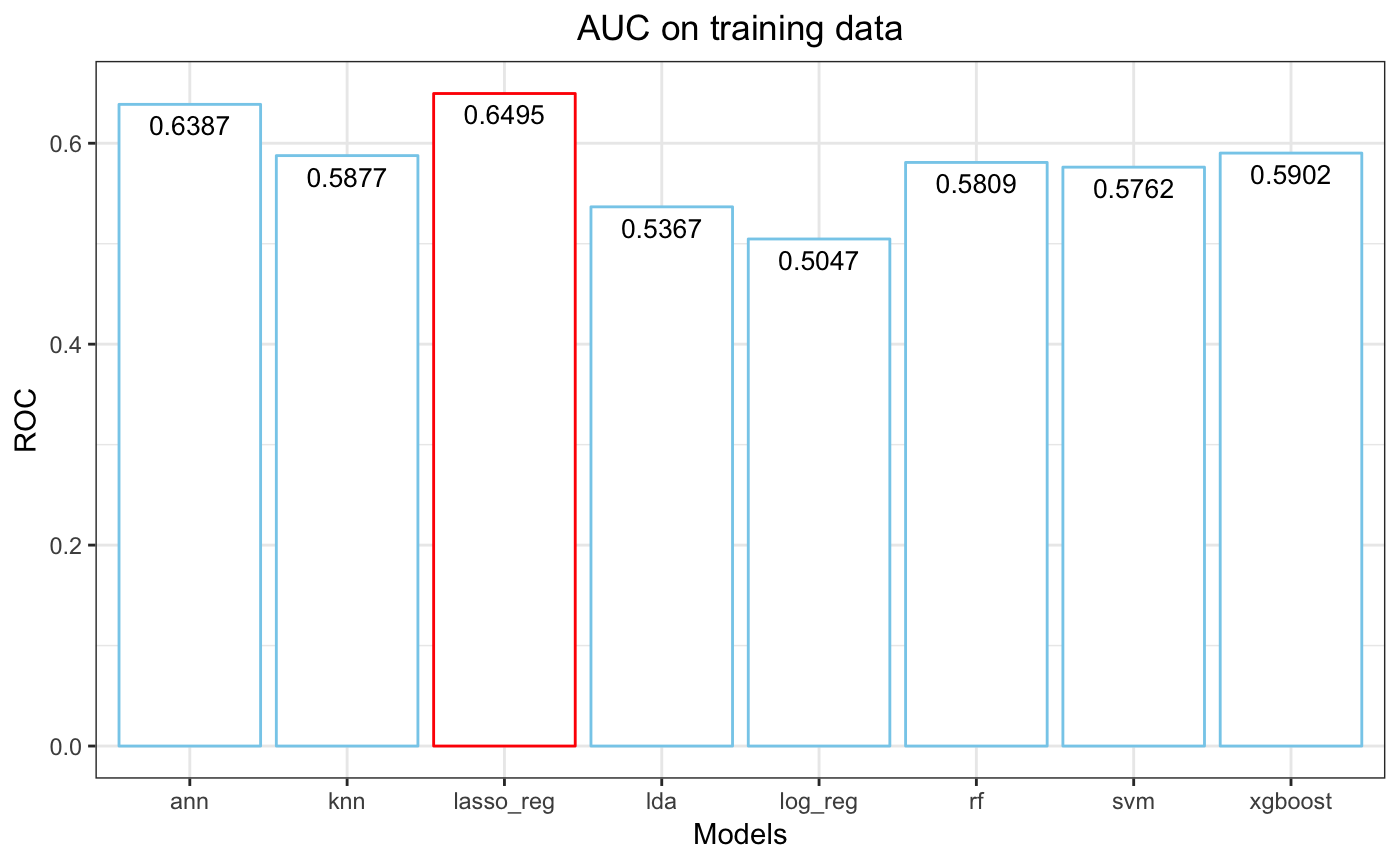
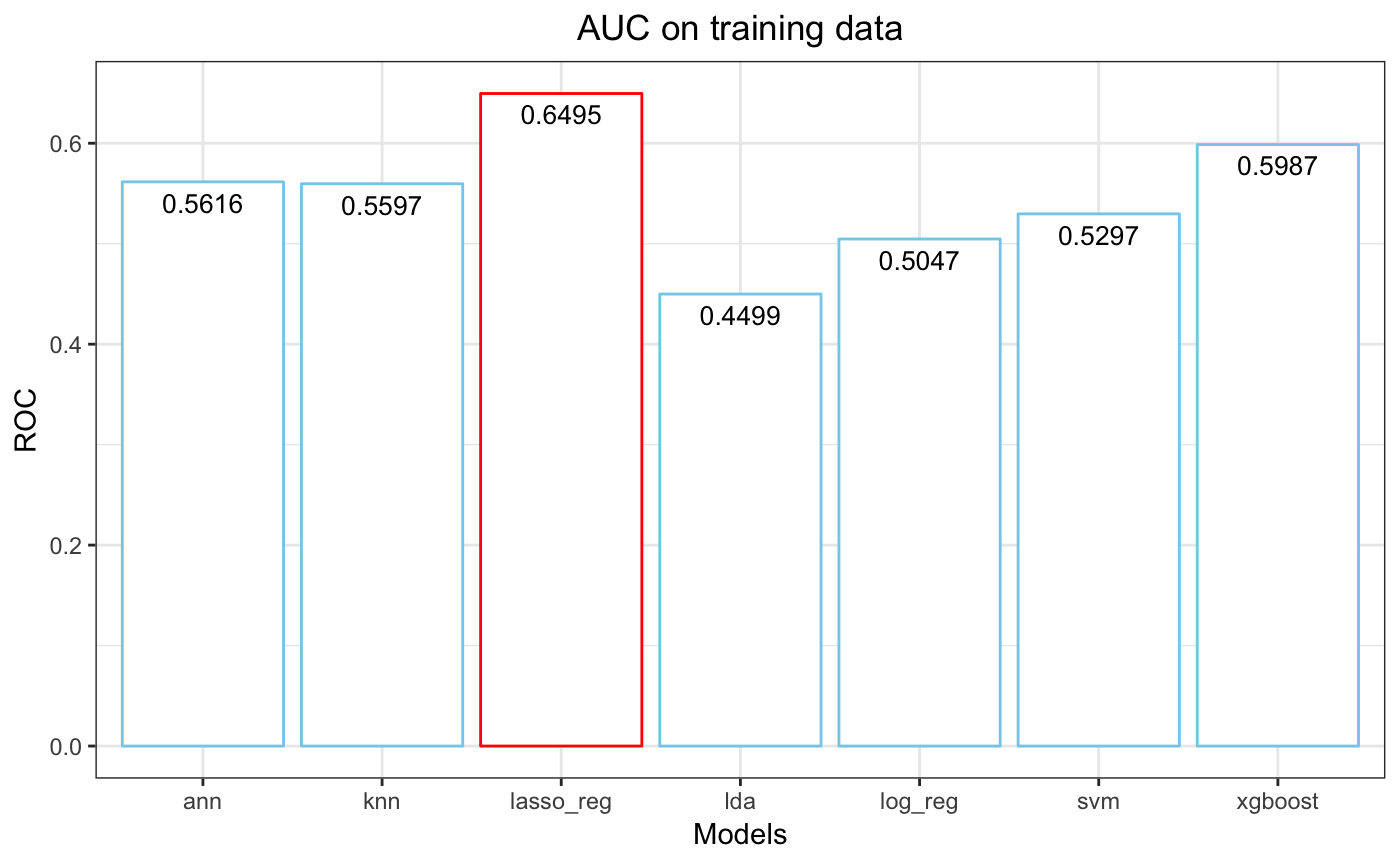
Fixed documentation

diff --git a/docs/reference/bestclassifier.html b/docs/reference/bestclassifier.html
@@ -34,7 +34,7 @@
 
 <meta property="og:description" content="bestclassifier trains up to eight binary classification models
 on a dataset and identifies the most predictive model according to
-either AUC or accuracy" />
+either AUC or Accuracy" />
 <meta name="twitter:card" content="summary" />
 
 
@@ -117,7 +117,7 @@ either AUC or accuracy" />
     
     <p><code>bestclassifier</code> trains up to eight binary classification models
 on a dataset and identifies the most predictive model according to
-either AUC or accuracy</p>
+either AUC or Accuracy</p>
     
     </div>
 
@@ -174,7 +174,7 @@ either AUC or accuracy</p>
     </tr>
     <tr>
       <th>subset_train</th>
-      <td><p>the percentage of the training data used to train the model</p></td>
+      <td><p>optional parameter used to reduce the size of the training dataset in order to speed up binary classification model creation. This parameter is a numeric object between 0 and 1.</p></td>
     </tr>
     <tr>
       <th>desired_metric</th>
@@ -184,20 +184,21 @@ either AUC or accuracy</p>
     
     <h2 class="hasAnchor" id="value"><a class="anchor" href="#value"></a>Value</h2>
 
-    <p>a confusion matrix of the best binary classification model</p>
+    <p>the best binary classification model</p>
     
     <h2 class="hasAnchor" id="details"><a class="anchor" href="#details"></a>Details</h2>
 
-    <p>This function uses the caret package to employ as many as eight binary 
-classification models on a dataset, allowing the user to train
+    <p>This function uses the caret package to train as many as eight binary 
+classification models on a dataset, allowing the user to build
 logistic regression, lasso regression, random forest, extreme gradient 
 boosting, support vector machine, artificial neural network, latent 
 dirichlet allocation, and k nearest neighbors models. After training the 
 models, the function prints a bar graph depicting the most predictive
 machine learning model based on AUC or Accuracy and outputs the name of
-the best model on the training dataset as well as its performance results.
-The function then employs the best model on a testing dataset and returns
-a confusion matrix describing the model's predictive results.</p>
+the best model on the training dataset as well as its predictive performance.
+The function then implements the best model on a testing dataset and prints
+a confusion matrix with the model's predictive performance. The function returns
+the best model.</p>
     
 
     <h2 class="hasAnchor" id="examples"><a class="anchor" href="#examples"></a>Examples</h2>
@@ -206,9 +207,35 @@ a confusion matrix describing the model's predictive results.</p>
 <span class='no'>names</span> <span class='kw'>&lt;-</span> <span class='fu'><a href='https://www.rdocumentation.org/packages/base/topics/c'>c</a></span>(<span class='st'>"a"</span>, <span class='st'>"b"</span>, <span class='st'>"c"</span>, <span class='st'>"d"</span>, <span class='st'>"e"</span>, <span class='st'>"f"</span>, <span class='st'>"g"</span>, <span class='st'>"h"</span>, <span class='st'>"i"</span>, <span class='st'>"j"</span>, <span class='st'>"k"</span>, <span class='st'>"l"</span>, <span class='st'>"m"</span>, <span class='st'>"n"</span>, <span class='st'>"o"</span>, <span class='st'>"p"</span>, <span class='st'>"q"</span>, <span class='st'>"r"</span>, <span class='st'>"s"</span>, <span class='st'>"t"</span>, <span class='st'>"u"</span>, <span class='st'>"v"</span>, <span class='st'>"w"</span>, <span class='st'>"x"</span>, <span class='st'>"y"</span>, <span class='st'>"z"</span>, <span class='st'>"aa"</span>, <span class='st'>"bb"</span>, <span class='st'>"cc"</span>, <span class='st'>"dd"</span>, <span class='st'>"ee"</span>, <span class='st'>"ff"</span>, <span class='st'>"gg"</span>, <span class='st'>"Class"</span>)
 <span class='fu'><a href='https://www.rdocumentation.org/packages/base/topics/names'>names</a></span>(<span class='no'>Ionosphere</span>) <span class='kw'>&lt;-</span> <span class='no'>names</span>
 <span class='fu'>bestclassifier</span>(<span class='kw'>data</span> <span class='kw'>=</span> <span class='no'>Ionosphere</span>, <span class='kw'>form</span> <span class='kw'>=</span> <span class='no'>Class</span> ~ <span class='no'>.</span>, <span class='kw'>method</span> <span class='kw'>=</span> <span class='st'>"repeatedcv"</span>,
-                <span class='kw'>number</span> <span class='kw'>=</span> <span class='fl'>5</span>, <span class='kw'>repeats</span> <span class='kw'>=</span> <span class='fl'>2</span>, <span class='kw'>tuneLength</span> <span class='kw'>=</span> <span class='fl'>5</span>, <span class='kw'>positive</span> <span class='kw'>=</span> <span class='st'>"Class"</span>,
-                <span class='kw'>model</span> <span class='kw'>=</span> <span class='fu'><a href='https://www.rdocumentation.org/packages/base/topics/c'>c</a></span>(<span class='st'>"log_reg"</span>, <span class='st'>"lasso"</span>, <span class='st'>"rf"</span>, <span class='st'>"svm"</span>, <span class='st'>"ann"</span>), <span class='kw'>set_seed</span> <span class='kw'>=</span> <span class='fl'>1234</span>,
-                <span class='kw'>subset_train</span> <span class='kw'>=</span> <span class='fl'>1.0</span>, <span class='kw'>desired_metric</span> <span class='kw'>=</span> <span class='st'>"ROC"</span>)</div><div class='output co'>#&gt; <span class='error'>Error in bestclassifier(data = Ionosphere, form = Class ~ ., method = "repeatedcv",     number = 5, repeats = 2, tuneLength = 5, positive = "Class",     model = c("log_reg", "lasso", "rf", "svm", "ann"), set_seed = 1234,     subset_train = 1, desired_metric = "ROC"): positive must be a valid argument of the dependent variable</span></div></pre>
+                <span class='kw'>number</span> <span class='kw'>=</span> <span class='fl'>5</span>, <span class='kw'>repeats</span> <span class='kw'>=</span> <span class='fl'>2</span>, <span class='kw'>tuneLength</span> <span class='kw'>=</span> <span class='fl'>5</span>, <span class='kw'>positive</span> <span class='kw'>=</span> <span class='st'>"good"</span>,
+                <span class='kw'>model</span> <span class='kw'>=</span> <span class='fu'><a href='https://www.rdocumentation.org/packages/base/topics/c'>c</a></span>(<span class='st'>"log_reg"</span>, <span class='st'>"lasso"</span>, <span class='st'>"rf"</span>), <span class='kw'>set_seed</span> <span class='kw'>=</span> <span class='fl'>1234</span>,
+                <span class='kw'>subset_train</span> <span class='kw'>=</span> <span class='fl'>1.0</span>, <span class='kw'>desired_metric</span> <span class='kw'>=</span> <span class='st'>"ROC"</span>)</div><div class='output co'>#&gt; <span class='warning'>Warning: The metric "Accuracy" was not in the result set. ROC will be used instead.</span></div><div class='output co'>#&gt; <span class='message'>Loading required package: lattice</span></div><div class='output co'>#&gt; <span class='message'>Loading required package: ggplot2</span></div><div class='output co'>#&gt; <span class='warning'>Warning: glm.fit: algorithm did not converge</span></div><div class='output co'>#&gt; <span class='warning'>Warning: glm.fit: fitted probabilities numerically 0 or 1 occurred</span></div><div class='output co'>#&gt; <span class='warning'>Warning: glm.fit: algorithm did not converge</span></div><div class='output co'>#&gt; <span class='warning'>Warning: glm.fit: fitted probabilities numerically 0 or 1 occurred</span></div><div class='output co'>#&gt; <span class='warning'>Warning: glm.fit: fitted probabilities numerically 0 or 1 occurred</span></div><div class='output co'>#&gt; <span class='warning'>Warning: glm.fit: algorithm did not converge</span></div><div class='output co'>#&gt; <span class='warning'>Warning: glm.fit: fitted probabilities numerically 0 or 1 occurred</span></div><div class='output co'>#&gt; <span class='warning'>Warning: glm.fit: fitted probabilities numerically 0 or 1 occurred</span></div><div class='output co'>#&gt; <span class='warning'>Warning: glm.fit: fitted probabilities numerically 0 or 1 occurred</span></div><div class='output co'>#&gt; <span class='warning'>Warning: glm.fit: fitted probabilities numerically 0 or 1 occurred</span></div><div class='output co'>#&gt; <span class='warning'>Warning: glm.fit: algorithm did not converge</span></div><div class='output co'>#&gt; <span class='warning'>Warning: glm.fit: fitted probabilities numerically 0 or 1 occurred</span></div><div class='output co'>#&gt; <span class='warning'>Warning: glm.fit: algorithm did not converge</span></div><div class='output co'>#&gt; <span class='warning'>Warning: glm.fit: fitted probabilities numerically 0 or 1 occurred</span></div><div class='output co'>#&gt; <span class='warning'>Warning: glm.fit: fitted probabilities numerically 0 or 1 occurred</span></div><div class='output co'>#&gt; <span class='warning'>Warning: glm.fit: fitted probabilities numerically 0 or 1 occurred</span></div><div class='output co'>#&gt; <span class='warning'>Warning: The metric "Accuracy" was not in the result set. ROC will be used instead.</span></div><div class='output co'>#&gt; <span class='warning'>Warning: The metric "Accuracy" was not in the result set. ROC will be used instead.</span></div><div class='output co'>#&gt; Your best binary classification model is rf yielding an AUC of 0.978 
+#&gt;  </div><div class='img'><img src='bestclassifier-1.png' alt='' width='700' height='433' /></div><div class='output co'>#&gt; Confusion Matrix and Statistics
+#&gt; 
+#&gt;           Reference
+#&gt; Prediction bad good
+#&gt;       bad   33    2
+#&gt;       good   4   65
+#&gt;                                           
+#&gt;                Accuracy : 0.9423          
+#&gt;                  95% CI : (0.8787, 0.9785)
+#&gt;     No Information Rate : 0.6442          
+#&gt;     P-Value [Acc &gt; NIR] : 6.661e-13       
+#&gt;                                           
+#&gt;                   Kappa : 0.8726          
+#&gt;  Mcnemar's Test P-Value : 0.6831          
+#&gt;                                           
+#&gt;             Sensitivity : 0.9701          
+#&gt;             Specificity : 0.8919          
+#&gt;          Pos Pred Value : 0.9420          
+#&gt;          Neg Pred Value : 0.9429          
+#&gt;              Prevalence : 0.6442          
+#&gt;          Detection Rate : 0.6250          
+#&gt;    Detection Prevalence : 0.6635          
+#&gt;       Balanced Accuracy : 0.9310          
+#&gt;                                           
+#&gt;        'Positive' Class : good            
+#&gt;                                           </div></pre>
   </div>
   <div class="col-md-3 hidden-xs hidden-sm" id="sidebar">
     <h2>Contents</h2>

diff --git a/docs/index.html b/docs/index.html
@@ -10,7 +10,7 @@
 <script src="https://cdnjs.cloudflare.com/ajax/libs/twitter-bootstrap/3.3.7/js/bootstrap.min.js" integrity="sha256-U5ZEeKfGNOja007MMD3YBI0A3OSZOQbeG6z2f2Y0hu8=" crossorigin="anonymous"></script><!-- Font Awesome icons --><link rel="stylesheet" href="https://cdnjs.cloudflare.com/ajax/libs/font-awesome/4.7.0/css/font-awesome.min.css" integrity="sha256-eZrrJcwDc/3uDhsdt61sL2oOBY362qM3lon1gyExkL0=" crossorigin="anonymous">
 <!-- clipboard.js --><script src="https://cdnjs.cloudflare.com/ajax/libs/clipboard.js/2.0.4/clipboard.min.js" integrity="sha256-FiZwavyI2V6+EXO1U+xzLG3IKldpiTFf3153ea9zikQ=" crossorigin="anonymous"></script><!-- sticky kit --><script src="https://cdnjs.cloudflare.com/ajax/libs/sticky-kit/1.1.3/sticky-kit.min.js" integrity="sha256-c4Rlo1ZozqTPE2RLuvbusY3+SU1pQaJC0TjuhygMipw=" crossorigin="anonymous"></script><!-- pkgdown --><link href="pkgdown.css" rel="stylesheet">
 <script src="pkgdown.js"></script><meta property="og:title" content="Identify Best Binary Classification Model">
-<meta property="og:description" content="This package identifies and employs the best binary classification machine learning model on a dataset based on either AUC or Accuracy.">
+<meta property="og:description" content="This package identifies and employs the best binary classification model on a dataset based on either AUC or Accuracy.">
 <meta name="twitter:card" content="summary">
 <!-- mathjax --><script src="https://cdnjs.cloudflare.com/ajax/libs/mathjax/2.7.5/MathJax.js" integrity="sha256-nvJJv9wWKEm88qvoQl9ekL2J+k/RWIsaSScxxlsrv8k=" crossorigin="anonymous"></script><script src="https://cdnjs.cloudflare.com/ajax/libs/mathjax/2.7.5/config/TeX-AMS-MML_HTMLorMML.js" integrity="sha256-84DKXVJXs0/F8OTMzX4UR909+jtl4G7SPypPavF+GfA=" crossorigin="anonymous"></script><!--[if lt IE 9]>
 <script src="https://oss.maxcdn.com/html5shiv/3.7.3/html5shiv.min.js"></script>
@@ -110,14 +110,13 @@ devtools<span class="op">::</span><span class="kw"><a href="https://www.rdocumen
 <div id="example" class="section level2">
 <h2 class="hasAnchor">
 <a href="#example" class="anchor"></a>Example</h2>
-<p>Below is an example of the bestclassifier function used on the CCD dataset:</p>
+<p>Below is an example of the bestclassifier function used on the CCD dataset. Because this dataset contains nearly 30,000 observations, I used only 1% of the training data to build the binary classification models.</p>
 <div class="sourceCode"><pre class="sourceCode r"><code class="sourceCode r"><span class="kw"><a href="https://www.rdocumentation.org/packages/base/topics/library">library</a></span>(bestclassifier)
 
 <span class="kw"><a href="reference/bestclassifier.html">bestclassifier</a></span>(<span class="dt">data =</span> CCD, <span class="dt">form =</span> default.payment.next.month <span class="op">~</span><span class="st"> </span>., <span class="dt">p =</span> <span class="fl">0.7</span>, 
               <span class="dt">method =</span> <span class="st">"repeatedcv"</span>, <span class="dt">number =</span> <span class="dv">5</span>, <span class="dt">repeats =</span> <span class="dv">1</span>, <span class="dt">tuneLength =</span> <span class="dv">5</span>, 
-              <span class="dt">positive =</span><span class="st">"Default"</span>, <span class="dt">model =</span> <span class="kw"><a href="https://www.rdocumentation.org/packages/base/topics/c">c</a></span>(<span class="st">"log_reg"</span>, <span class="st">"lasso"</span>, <span class="st">"rf"</span>, <span class="st">"svm"</span>, <span class="st">"lda"</span>, 
-              <span class="st">"knn"</span>, <span class="st">"ann"</span>, <span class="st">"xgboost"</span>), <span class="dt">set_seed =</span> <span class="dv">1234</span>, <span class="dt">subset_train =</span> .<span class="dv">01</span>, 
-              <span class="dt">desired_metric =</span> <span class="st">"ROC"</span>)</code></pre></div>
+              <span class="dt">positive =</span><span class="st">"Default"</span>, <span class="dt">model =</span> <span class="kw"><a href="https://www.rdocumentation.org/packages/base/topics/c">c</a></span>(<span class="st">"log_reg"</span>, <span class="st">"lasso"</span>, <span class="st">"rf"</span>), 
+              <span class="dt">set_seed =</span> <span class="dv">1234</span>, <span class="dt">subset_train =</span> .<span class="dv">01</span>, <span class="dt">desired_metric =</span> <span class="st">"ROC"</span>)</code></pre></div>
 </div>
 <div id="getting-help" class="section level2">
 <h2 class="hasAnchor">

diff --git a/docs/articles/introduction_to_bestclassifier.html b/docs/articles/introduction_to_bestclassifier.html
@@ -73,7 +73,7 @@
       <h1>Introduction to bestclassifier</h1>
                         <h4 class="author">Shane Ross</h4>
             
-            <h4 class="date">2018-12-13</h4>
+            <h4 class="date">2018-12-21</h4>
       
       
       <div class="hidden name"><code>introduction_to_bestclassifier.Rmd</code></div>
@@ -239,8 +239,7 @@
 <h4 class="hasAnchor">
 <a href="#subset_train" class="anchor"></a>subset_train</h4>
 <ul>
-<li>
-<strong>subset_train</strong> depicts the percentage of the training data used to train the binary classification models. This parameter helps reduce computation time when the training dataset is especially large. It accepts numeric objects in between 0 and 1.
+<li>After the data has been divided into a training and testing dataset, <strong>subset_train</strong> will reduce the size of the training data in order to generate the binary classification models more quickly. This parameter is used to decrease computation time when the training dataset is especially large and the user does not have time to wait for the results. However, performance can suffer when training a model based on a fraction of the training data. This parameter accepts numeric objects between 0 and 1.
 <ul>
 <li>Ex: subset_train = .1</li>
 </ul>
@@ -297,15 +296,15 @@
 <div id="interpreting-the-output-generated-by-best-classifier" class="section level2">
 <h2 class="hasAnchor">
 <a href="#interpreting-the-output-generated-by-best-classifier" class="anchor"></a>Interpreting the output generated by best.classifier</h2>
-<p>In the example below, I am seeking the machine learning model that produces the highest AUC when classifying credit card default. These models will be predicting the “Default” category in the Class variable by using all of the predictors in the dataset.</p>
+<p>In the example below, I am seeking the machine learning model that produces the highest AUC when classifying credit card default. These models will be predicting the “Default” category in the Class variable by using all of the predictors in the dataset. Because the CCD data contains nearly 30,000 observations, I am training the model on 1% of the training dataset for fast results.</p>
 <div class="sourceCode"><pre class="sourceCode r"><code class="sourceCode r"><span class="kw"><a href="https://www.rdocumentation.org/packages/base/topics/library">library</a></span>(bestclassifier)
 <span class="kw"><a href="../reference/bestclassifier.html">bestclassifier</a></span>(<span class="dt">data =</span> CCD, <span class="dt">form =</span> default.payment.next.month <span class="op">~</span><span class="st"> </span>., <span class="dt">p =</span> <span class="fl">0.7</span>, <span class="dt">method =</span> 
 <span class="st">"repeatedcv"</span>, <span class="dt">number =</span> <span class="dv">5</span>, <span class="dt">repeats =</span> <span class="dv">1</span>, <span class="dt">tuneLength =</span> <span class="dv">5</span>, 
-<span class="dt">positive =</span><span class="st">"Default"</span>, <span class="dt">model =</span> <span class="kw"><a href="https://www.rdocumentation.org/packages/base/topics/c">c</a></span>(<span class="st">"log_reg"</span>, <span class="st">"lasso"</span>, <span class="st">"rf"</span>, 
+<span class="dt">positive =</span><span class="st">"Default"</span>, <span class="dt">model =</span> <span class="kw"><a href="https://www.rdocumentation.org/packages/base/topics/c">c</a></span>(<span class="st">"log_reg"</span>, <span class="st">"lasso"</span>, <span class="st">"lda"</span>, 
 <span class="st">"svm"</span>, <span class="st">"lda"</span>, <span class="st">"knn"</span>, <span class="st">"ann"</span>, 
 <span class="st">"xgboost"</span>),
 <span class="dt">set_seed =</span> <span class="dv">1234</span>, <span class="dt">subset_train =</span> .<span class="dv">01</span>, <span class="dt">desired_metric =</span> <span class="st">"ROC"</span>)
-<span class="co">#&gt; maximum number of iterations reached -2.016699e-05 -1.868676e-05Your best binary classification model is lasso_reg yielding an AUC of 0.6495 </span>
+<span class="co">#&gt; Your best binary classification model is lasso_reg yielding an AUC of 0.6495 </span>
 <span class="co">#&gt; </span></code></pre></div>
 <p><img src="introduction_to_bestclassifier_files/figure-html/best.classifier-1.png" width="700"></p>
 <pre><code>#&gt; Confusion Matrix and Statistics

diff --git a/README.md b/README.md
@@ -47,16 +47,15 @@ Once identifying the best machine learning model, the bestclassifier function wi
 
 ## Example 
 
-Below is an example of the bestclassifier function used on the CCD dataset:
+Below is an example of the bestclassifier function used on the CCD dataset. Because this dataset contains nearly 30,000 observations, I used only 1% of the training data to build the binary classification models.
 
 ``` r
 library(bestclassifier)
 
 bestclassifier(data = CCD, form = default.payment.next.month ~ ., p = 0.7, 
               method = "repeatedcv", number = 5, repeats = 1, tuneLength = 5, 
-              positive ="Default", model = c("log_reg", "lasso", "rf", "svm", "lda", 
-              "knn", "ann", "xgboost"), set_seed = 1234, subset_train = .01, 
-              desired_metric = "ROC")
+              positive ="Default", model = c("log_reg", "lasso", "rf"), 
+              set_seed = 1234, subset_train = .01, desired_metric = "ROC")
 ```
 
 ## Getting Help
